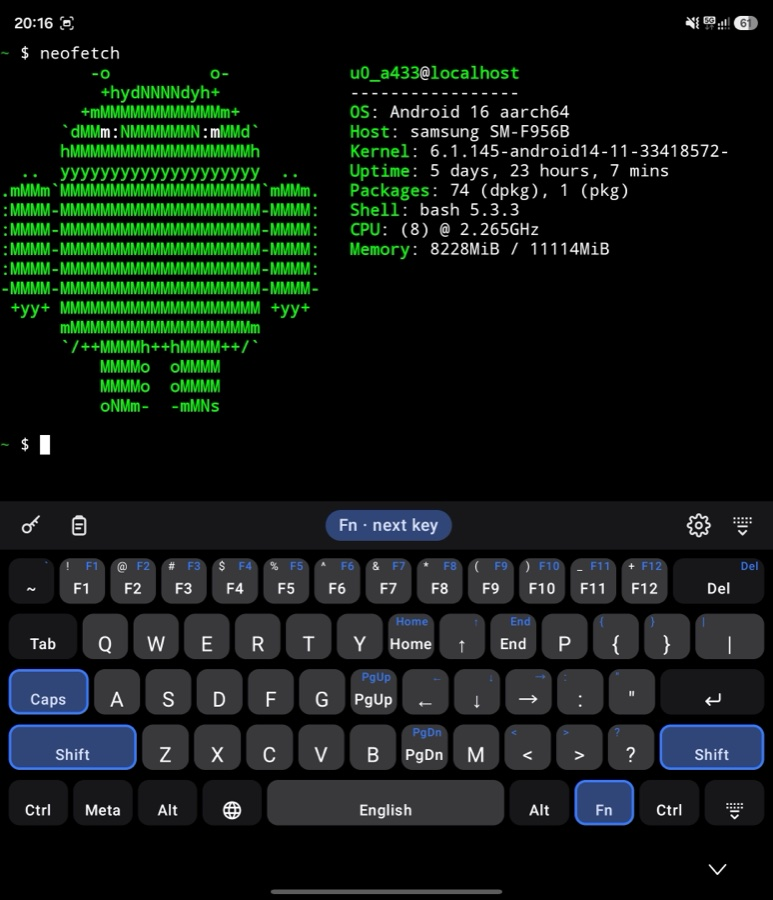
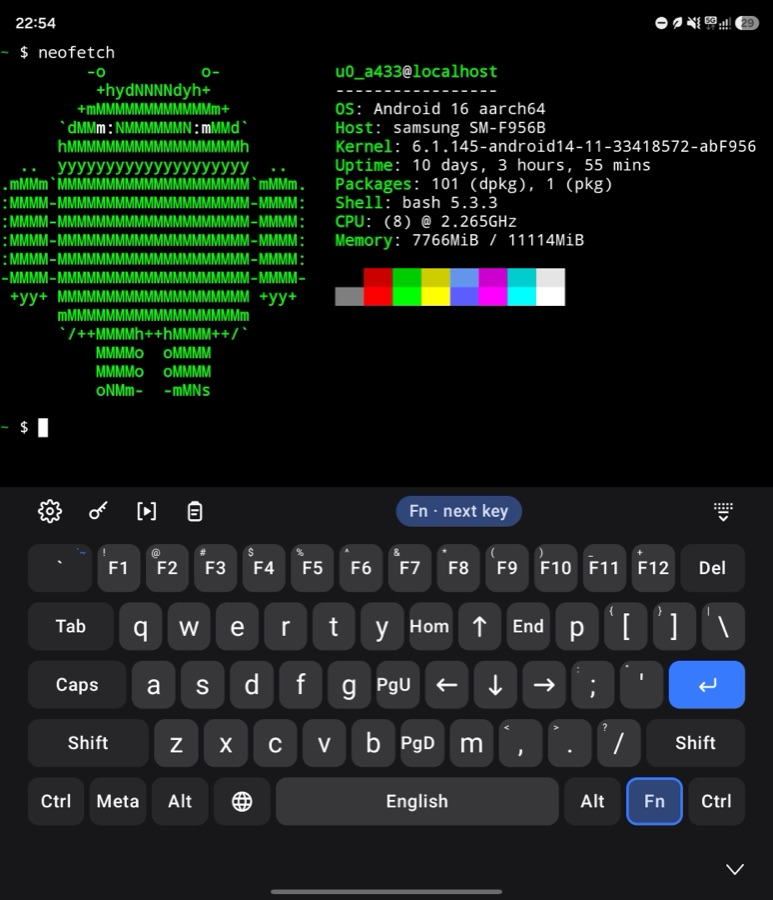
Docs: new README screenshots, and the toolbar, password manager and try fields (#73)
The screenshots were from before the wide board lost its hide key and the toolbar gained the gear. Six new ones, taken on a Galaxy Z Fold, replace them: the 60% board with Fn armed and split in two; the phone board with suggestions and the developer strip; the gear's sheet; the macro sheet; and the macro editor. fold-terminal.jpg is gone. Each image is resized to 900 px high, like the old ones.

The README now describes the toolbar and what its buttons do, the password manager sheet (fill a login, open the manager, change it), and the try fields in Settings and the macro editor. It also says the language set starts with English only: the old text claimed it followed the phone's languages, which stopped being true when the first-run default became English.

Claude-Session: https://claude.ai/code/session_018xZ5Nj34LPYuz4dyeT9AN1

diff --git a/README.md b/README.md
@@ -34,10 +34,15 @@ from the password manager you already use, and the keyboard never shows or keeps
 
 ## What it looks like
 
-| Terminal on a foldable | Fn and Shift armed | Phone, with the developer strip |
-|---|---|---|
-| <img src="docs/screenshots/fold-terminal.jpg" alt="The 60% board under a terminal session on a foldable" width="380"> | <img src="docs/screenshots/fold-fn.jpg" alt="The same board with Fn and Shift held: the number row shows F1 to F12 and the letters show arrows, Home, End and brackets" width="380"> | <img src="docs/screenshots/phone-dev-strip.jpg" alt="The phone board in dark mode with a strip of Esc, Tab, Ctrl, Alt, Shift, arrows and Fn above the letters" width="180"> |
-| The whole 60% board, with the keys' symbols printed where a PC keyboard has them. | Hold Fn and the keys show what they will type, so nothing has to be remembered. | The same modifiers on a phone, one tap away, over any layer. |
+| Fn armed on a foldable | Split in two |
+|---|---|
+| <img src="docs/screenshots/fold-fn.jpg" alt="The 60% board under a terminal session on a foldable with Fn armed: the number row shows F1 to F12, the letters show arrows, Home, End, PgUp and PgDn, and the toolbar says Fn · next key" width="380"> | <img src="docs/screenshots/fold-split.jpg" alt="The 60% board split into a left and a right half on a foldable, each half with its own space bar" width="380"> |
+| Every key of a 60% board, with the symbols printed where a PC keyboard has them. Arm Fn and the keys show what they will type. | Or in two halves, one under each thumb: where a hinge crosses the screen, on a phone turned sideways, or always. |
+
+| Suggestions and the developer strip | The gear | Macros, one tap | Building a macro |
+|---|---|---|---|
+| <img src="docs/screenshots/phone-dev-strip.jpg" alt="The phone board with word suggestions in the toolbar and a strip of Esc, Tab, Ctrl, Alt, Shift, arrows and Fn above the letters" width="180"> | <img src="docs/screenshots/phone-gear-sheet.jpg" alt="The sheet the toolbar's gear opens: a Developer mode switch and a way to Settings" width="180"> | <img src="docs/screenshots/phone-macro-sheet.jpg" alt="The macro sheet over a terminal: the built-in password generator and a macro that types neofetch and presses Enter" width="180"> | <img src="docs/screenshots/phone-macro-editor.jpg" alt="The macro editor with a Type text block and a Press key block for Enter, and a field to try it" width="180"> |
+| Words to pick while you type, and the PC keys above any layer. | Developer mode and Settings, behind one button. | Play a macro into any field, a terminal included. | Snap blocks together, then try the macro right there. |
 
 ## Everyday typing
 
@@ -50,17 +55,25 @@ from the password manager you already use, and the keyboard never shows or keeps
   lights up, one tap on it cancels the capital, and terminals, addresses and code get none. It can
   be turned off in Settings.
 - **Ten languages:** English, Ukrainian, Russian, Bulgarian, French, Spanish, German, Italian, Portuguese
-  (Brazil) and Polish, each with its own layout and long-press accents. Until you change the set
-  it follows your phone's languages, plus English; a globe key switches them, and holding it opens
-  the list. For Russian speakers in Bulgaria who prefer typing on the Russian ЙЦУКЕН layout, an optional
-  setting enables combined Bulgarian vocabulary with collision-safe autocorrect.
+  (Brazil) and Polish, each with its own layout and long-press accents. English is always on; add
+  the others in Settings → Languages. With two or more, a globe key switches them, holding it opens
+  the list, and the space bar names the one you are typing in. For Russian speakers in Bulgaria
+  who prefer typing on the Russian ЙЦУКЕН layout, an optional setting enables combined Bulgarian
+  vocabulary with collision-safe autocorrect.
   *(Want your language or a feature? [Create an issue](https://github.com/matasarei/hcboard/issues) and tell me!)*
 - **The feel of a phone keyboard:** a preview above the key you press, a spring under your finger,
   a light haptic tick, accents on a long press, and a cursor trackpad when you hold the space bar.
 - **Your phone's look:** Material 3, with dynamic colour on Android 12 and later. Four themes —
   System, Light, Dark and Black — and the dark board is built on the same background your apps use.
+- **A toolbar that stays out of the way:** the gear (Developer mode and Settings), your password
+  manager, your macros and paste on the left, hide on the right. While you type a word, its
+  suggestions take the buttons' place; the chevron brings them back.
+- **Your password manager, one tap away.** Logins it offers appear above the keys. The key button
+  can also fill a login into the field in front of you, open the manager, or change which one
+  Android uses.
 - **Fits your hands:** set the keyboard's height, the space under the keys (or let it follow the
-  system bar), key borders, the haptic tick and the key preview in Settings.
+  system bar), key borders, the haptic tick and the key preview in Settings, and try each change in
+  the field at the bottom of the screen, or in its password field.
 
 ## When you want to tinker
 
@@ -70,8 +83,8 @@ from the password manager you already use, and the keyboard never shows or keeps
   edges are balanced so the letters sit nearer the middle of the screen, and it can split into a
   left and a right half: by itself where a hinge crosses the screen and on a phone turned sideways,
   or always, or never (Settings → Wide keyboard).
-- **A developer strip on phones.** Developer mode under the toolbar's gear puts Esc, Tab, Ctrl, Alt,
-  Shift, arrows and Fn above any layer, and the keyboard remembers which apps you use it in.
+- **A developer strip on phones.** Developer mode, behind the toolbar's gear, puts Esc, Tab, Ctrl,
+  Alt, Shift, arrows and Fn above any layer, and the keyboard remembers which apps you use it in.
 - **Modifiers that latch the way you expect.** Tap one to arm it for the next key, double-tap or
   long-press to lock it, or hold it and tap another key with a second finger. They survive layer
   switches, and the toolbar says what is armed. Every key shows what it will type as Shift or Fn
@@ -82,8 +95,9 @@ from the password manager you already use, and the keyboard never shows or keeps
   is armed the keys show the Latin letters they will send.
 - **Macros built from blocks.** Snap together coloured blocks — type text, press a key such as Esc,
   F1 or Shift, a combination like Ctrl+Shift+T, random keys, repeat, wait, paste — then play the
-  macro into any field from the toolbar's macro button (Settings → Macros). One comes built in: a
-  password generator that types 16 random letters, digits and symbols.
+  macro into any field from the toolbar's macro button (Settings → Macros). The editor has a field
+  to try a macro in before you use it. One comes built in: a password generator that types 16
+  random letters, digits and symbols.
 
 ## Privacy
 
